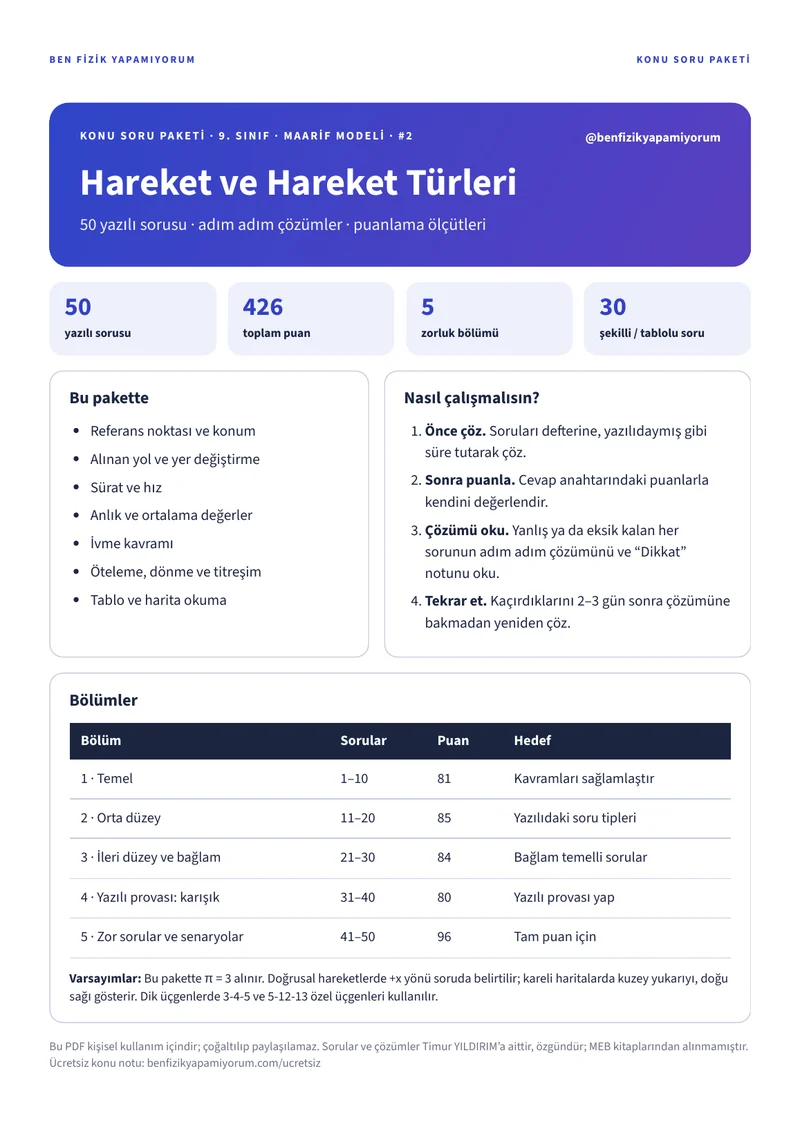
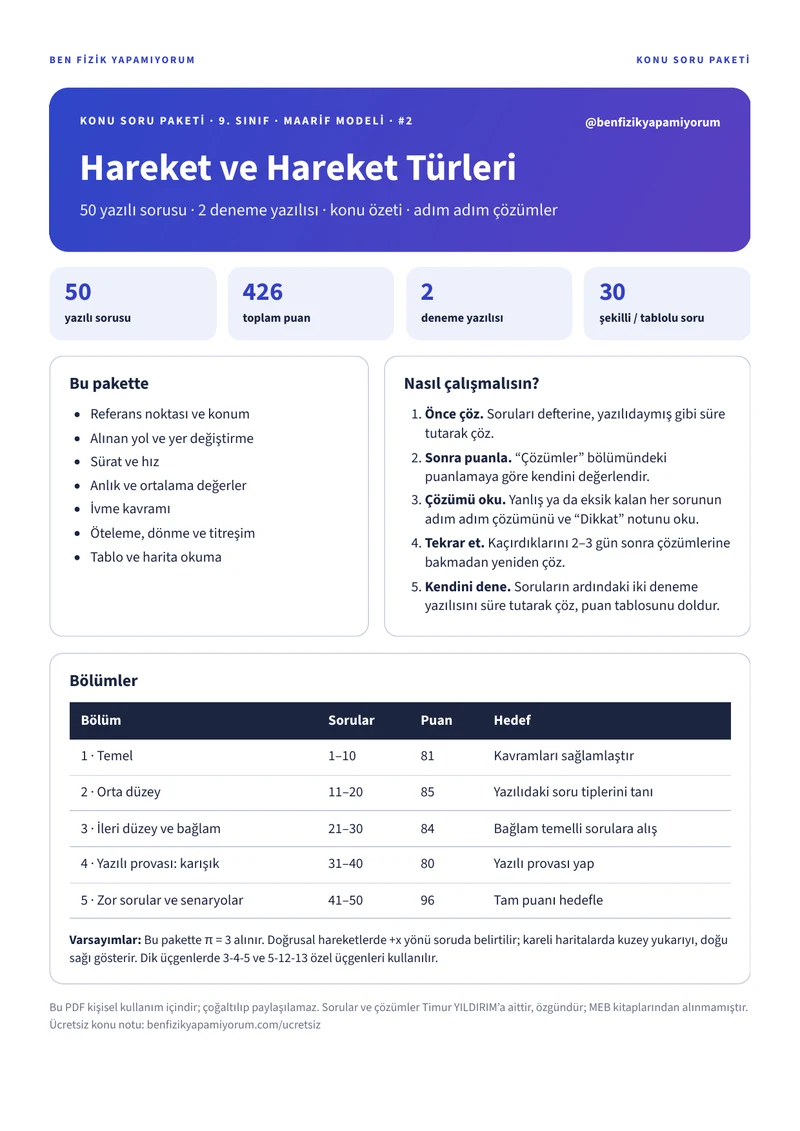
Paket #2 (9, 10): yeni kapaklar; kartlara konu özeti, 2 deneme yazılısı ve puan tablosu bilgisi
Claude-Session: https://claude.ai/code/session_013FzBSm9NHxLwqnbfAWsGa1

Changed region(s): [[0.0625, 0.0309, 0.9375, 0.9593]]

diff --git a/paket/index.html b/paket/index.html
@@ -38,7 +38,7 @@
 <a class="text-link" href="/notlar/9-fizik-notlari-1-nicelikler.pdf" data-bfy-event="paket_not_9">Önce ücretsiz notu indir ↓</a></article>
 <article class="pk-kart" id="s9-2"><img src="img/paket/kapak-9-2.webp" width="800" height="1131" loading="lazy" alt="9. sınıf Konu Soru Paketi #2: Hareket ve Hareket Türleri kapağı">
 <p class="eyebrow">9. SINIF · MAARİF MODELİ · PAKET #2 · YENİ</p><h3>Hareket ve Hareket Türleri</h3><ul><li>Referans noktası ve konum</li><li>Alınan yol ve yer değiştirme</li><li>Sürat ve hız; anlık ve ortalama değerler</li><li>İvme kavramı</li><li>Öteleme, dönme ve titreşim hareketleri</li></ul>
-<p style="margin:0;font-size:14.5px;color:#4b5a55">50 soru · 426 puan · 30 şekilli/tablolu soru</p>
+<p style="margin:0;font-size:14.5px;color:#4b5a55">50 soru · 426 puan · 30 şekilli/tablolu soru · konu özeti · 2 deneme yazılısı · puan tablosu</p>
 <div class="pk-fiyat"><b>₺99</b><span>PDF · ödemeden sonra hemen indir</span></div>
 <a class="button" href="https://www.shopier.com/benfizikyapamiyorum/52861192" target="_blank" rel="noopener" data-bfy-event="paket_al_9_2">Paketi al ↗</a>
 <a class="text-link" href="/9-sinif-fizik-yol-yer-degistirme-hiz.html" data-bfy-event="paket_not_9_2">Önce ücretsiz konu özetini oku →</a></article><article class="pk-kart" id="s10"><img src="img/paket/kapak-10.webp" width="800" height="1131" loading="lazy" alt="10. sınıf Konu Soru Paketi: Sabit Hızlı Hareket ve Grafik Okuma kapağı">
@@ -49,7 +49,7 @@
 <a class="text-link" href="/notlar/10-fizik-notlari-1-sabit-hizli-hareket.pdf" data-bfy-event="paket_not_10">Önce ücretsiz notu indir ↓</a></article>
 <article class="pk-kart" id="s10-2"><img src="img/paket/kapak-10-2.webp" width="800" height="1131" loading="lazy" alt="10. sınıf Konu Soru Paketi #2: İş, Enerji ve Güç kapağı">
 <p class="eyebrow">10. SINIF · MAARİF MODELİ · PAKET #2 · YENİ</p><h3>İş, Enerji ve Güç</h3><ul><li>Fiziksel anlamda iş; pozitif, negatif ve net iş</li><li>Kuvvet – yer değiştirme grafiğinden iş</li><li>İş ve enerji aktarımı</li><li>Güç; iş, enerji ve güç ilişkisi</li><li>Güç etiketi, kWh ve enerji tüketimi</li></ul>
-<p style="margin:0;font-size:14.5px;color:#4b5a55">50 soru · 427 puan · 24 şekilli/tablolu soru</p>
+<p style="margin:0;font-size:14.5px;color:#4b5a55">50 soru · 427 puan · 24 şekilli/tablolu soru · konu özeti · 2 deneme yazılısı · puan tablosu</p>
 <div class="pk-fiyat"><b>₺99</b><span>PDF · ödemeden sonra hemen indir</span></div>
 <a class="button" href="https://www.shopier.com/benfizikyapamiyorum/52861260" target="_blank" rel="noopener" data-bfy-event="paket_al_10_2">Paketi al ↗</a>
 <a class="text-link" href="/10-sinif-fizik-is-ve-guc.html" data-bfy-event="paket_not_10_2">Önce ücretsiz konu özetini oku →</a></article><article class="pk-kart" id="s11"><img src="img/paket/kapak-11.webp" width="800" height="1131" loading="lazy" alt="11. sınıf Konu Soru Paketi: Serbest Düşme ve İki Boyutta Sabit İvmeli Hareket kapağı">
